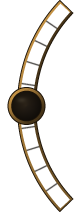
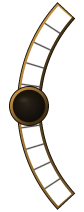
Thicker health and mana arcs; circles on by default
- The track is 18 px thick (was 13), images 84x212, medallion a bit larger.
- Show health and mana circles is on by default, and turned on once for the installs that had the old default (off).

Changed region(s): [[0.0789, 0.0, 0.9737, 1.0], [0.5263, 0.4245, 0.6053, 0.566], [0.7632, 0.1415, 0.7895, 0.1698]]

diff --git a/tools/gen_health_circles.py b/tools/gen_health_circles.py
@@ -4,7 +4,7 @@
 Each side has three layers, drawn in this order by layouts/*/styles/40-healthinfo.otui:
   *_back   the empty track: a dark, see-through groove
   *_fill   the liquid in the track, in grey: the client tints it (health: green to red with the health left, mana: blue)
-           and cuts it from the bottom up (healthinfo.lua, FILL_TOP / FILL_BOTTOM below)
+           and cuts it from the bottom up (healthinfo.lua FILL_TOP / FILL_BOTTOM: the rows of the track, 6 to 206)
   *_frame  the bronze frame, the 10% notches and the medallion in the middle that holds the percentage
 The right side is the mirror of the left one. Everything is drawn 4x larger and scaled down (smooth edges).
 
@@ -18,14 +18,14 @@ from PIL import Image
 
 OUT = os.path.join(os.path.dirname(os.path.abspath(__file__)), '..', 'data', 'images', 'game', 'circle')
 
-W, H = 76, 212                 # image size (healthinfo.lua CIRCLE_W / CIRCLE_H)
+W, H = 84, 212                 # image size (healthinfo.lua CIRCLE_W / CIRCLE_H)
 CY = H / 2
-R_OUT, R_IN = 150.0, 137.0     # the track: a ring this thick, centred to the right of the image
+R_OUT, R_IN = 150.0, 132.0     # the track: a ring 18 px thick, centred to the right of the image
 CX = 20 + R_OUT                # leftmost point of the track at x = 20
 R_MID = (R_OUT + R_IN) / 2
-HALF = math.asin(98 / R_MID)   # the track spans 98 px up and down from the middle (at mid thickness)
+HALF = math.asin(94 / R_MID)   # the track spans 94 px up and down from the middle (at mid thickness)
 RIM = 2.2                      # bronze border width
-MED_R, MED_IN = 19.0, 14.5     # medallion: outer radius and the dark inside
+MED_R, MED_IN = 20.0, 15.5     # medallion: outer radius and the dark inside
 MED_X, MED_Y = CX - R_MID, CY  # on the track, in the middle
 S = 4                          # supersampling
 
